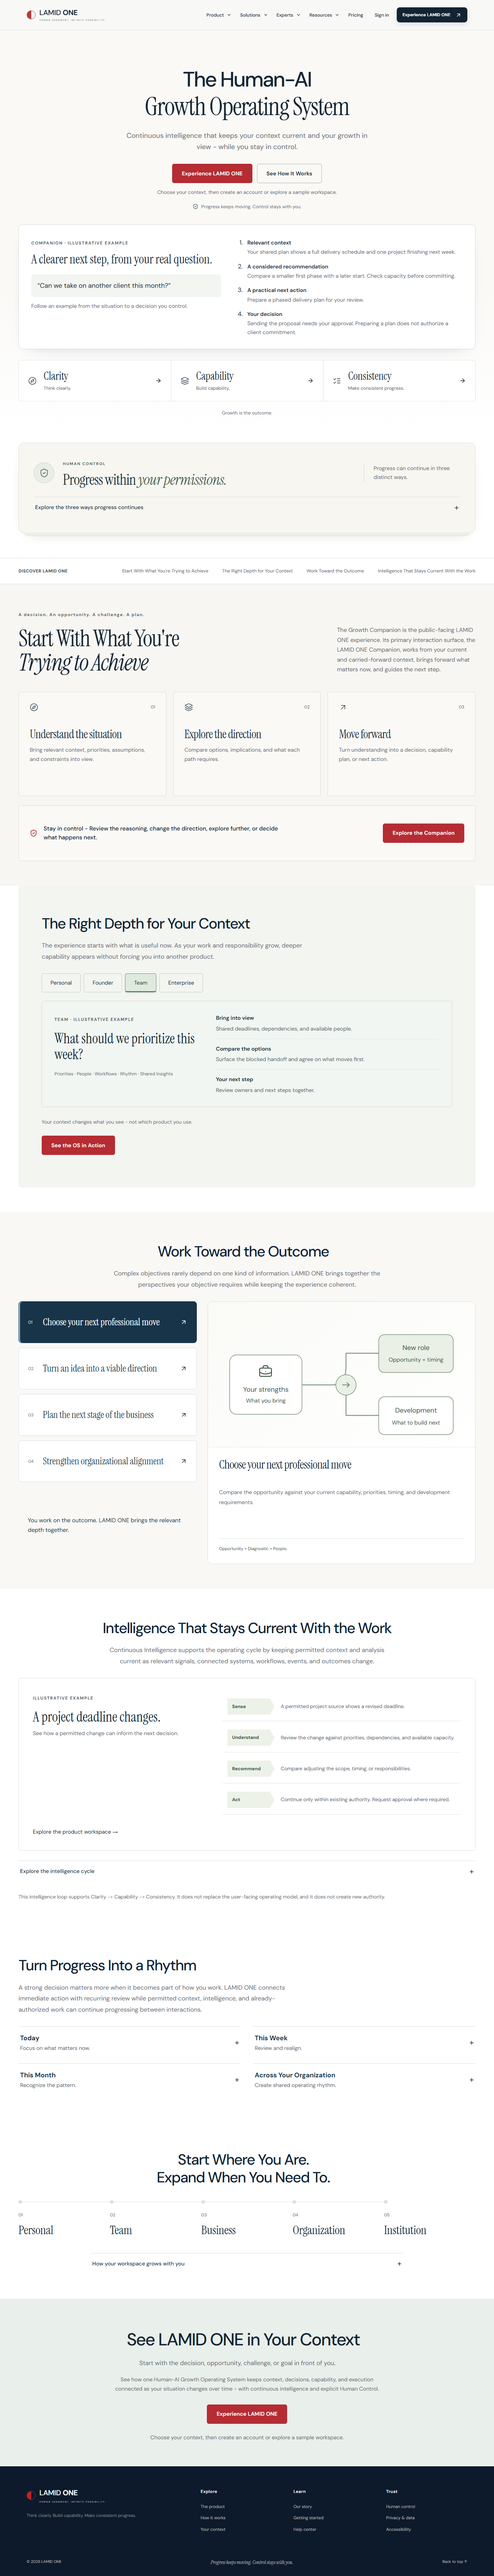
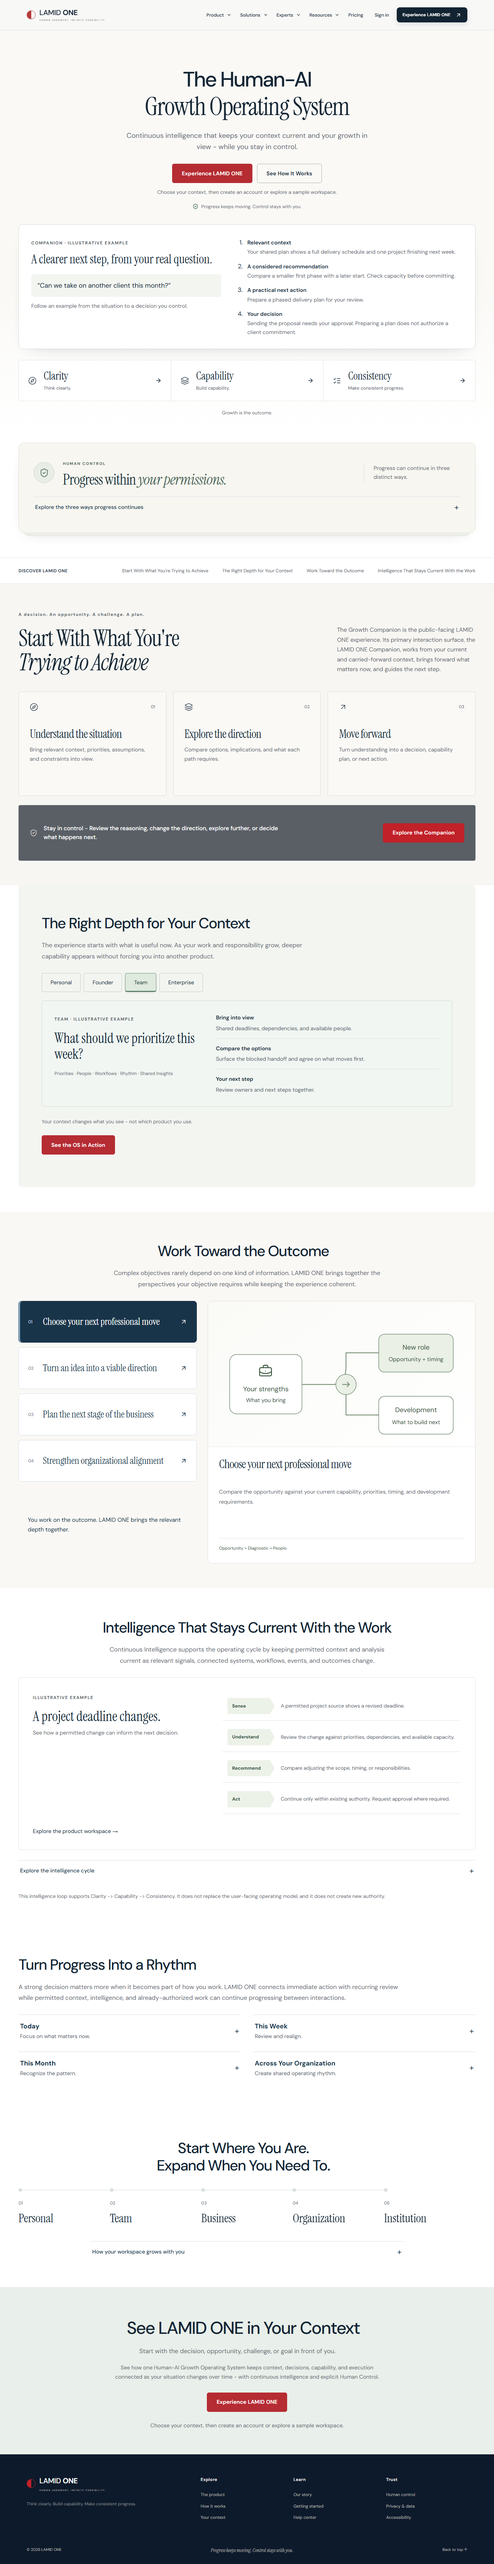
colors

diff --git a/src/products/website/pages/home/home.css b/src/products/website/pages/home/home.css
@@ -704,6 +704,12 @@
 .lamid-home .home-rhythm-section {
   background: #f7f8f6;
 }
+@media (min-width: 1000px) {
+  .lamid-home .home-rhythm-section .home-section-heading,
+  .lamid-home .home-rhythm-section .home-section-heading > p {
+    max-width: 1000px;
+  }
+}
 .lamid-home .home-rhythm-timeline {
   display: grid;
   grid-template-columns: repeat(4, minmax(0, 1fr));
@@ -1305,9 +1311,9 @@
   gap: 32px;
   margin-top: 24px;
   padding: 22px 28px;
-  border: 1px solid #dcded8;
+  border: 1px solid var(--graphite);
   border-radius: 4px;
-  background: #faf9f6;
+  background: var(--graphite);
 }
 .lamid-home .home-objective-footer > div:first-child {
   display: flex;
@@ -1317,16 +1323,20 @@
 }
 .lamid-home .home-objective-footer svg {
   flex-shrink: 0;
-  color: var(--signature-red);
+  color: var(--sandstone);
 }
 .lamid-home .home-objective-footer p {
   font-size: 15px;
   line-height: 1.5;
   font-weight: 500;
-  color: var(--midnight);
+  color: #fff;
 }
 .lamid-home .home-objective-footer .canonical-ctas {
   flex-shrink: 0;
+}
+.lamid-home .home-objective-footer .canonical-ctas .button-primary {
+  background: var(--signature-red);
+  border-color: var(--signature-red);
 }
 .lamid-home.product-workspace-example {
   padding: 32px 0 64px;
